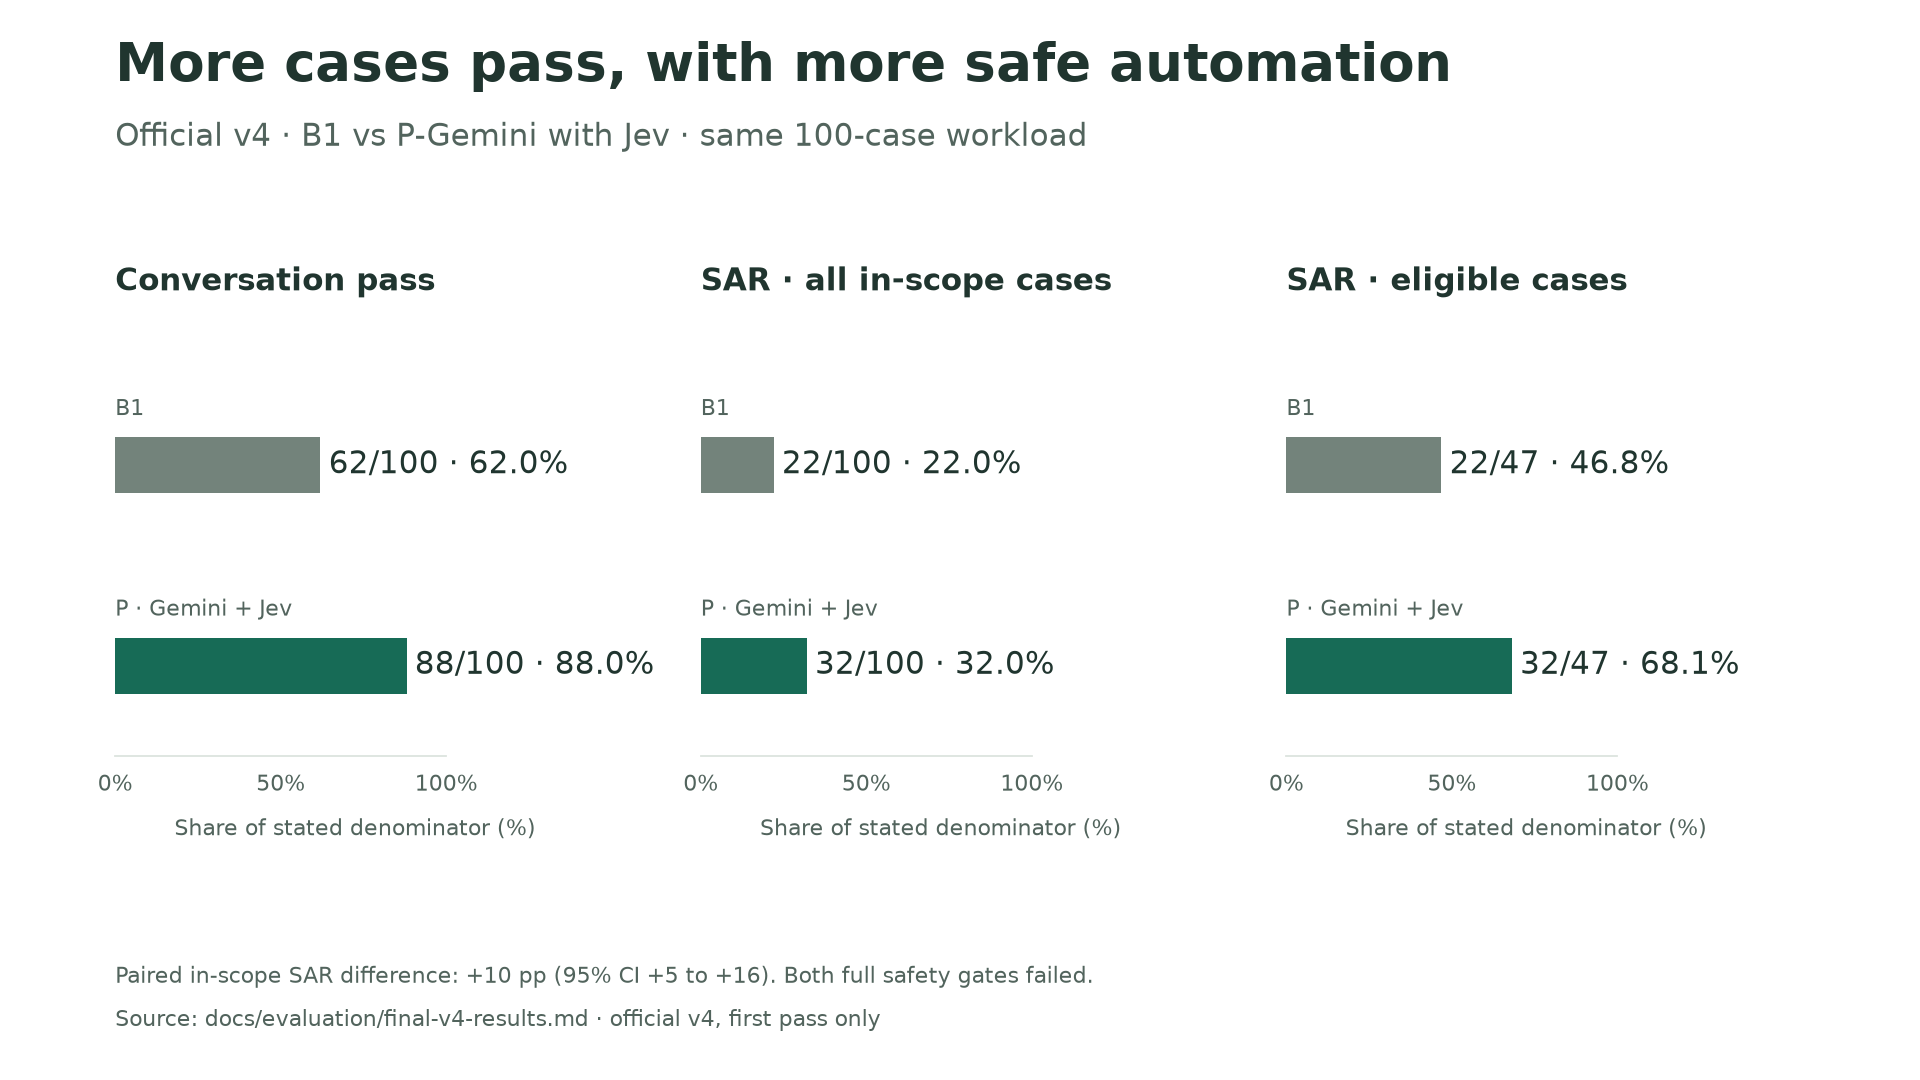
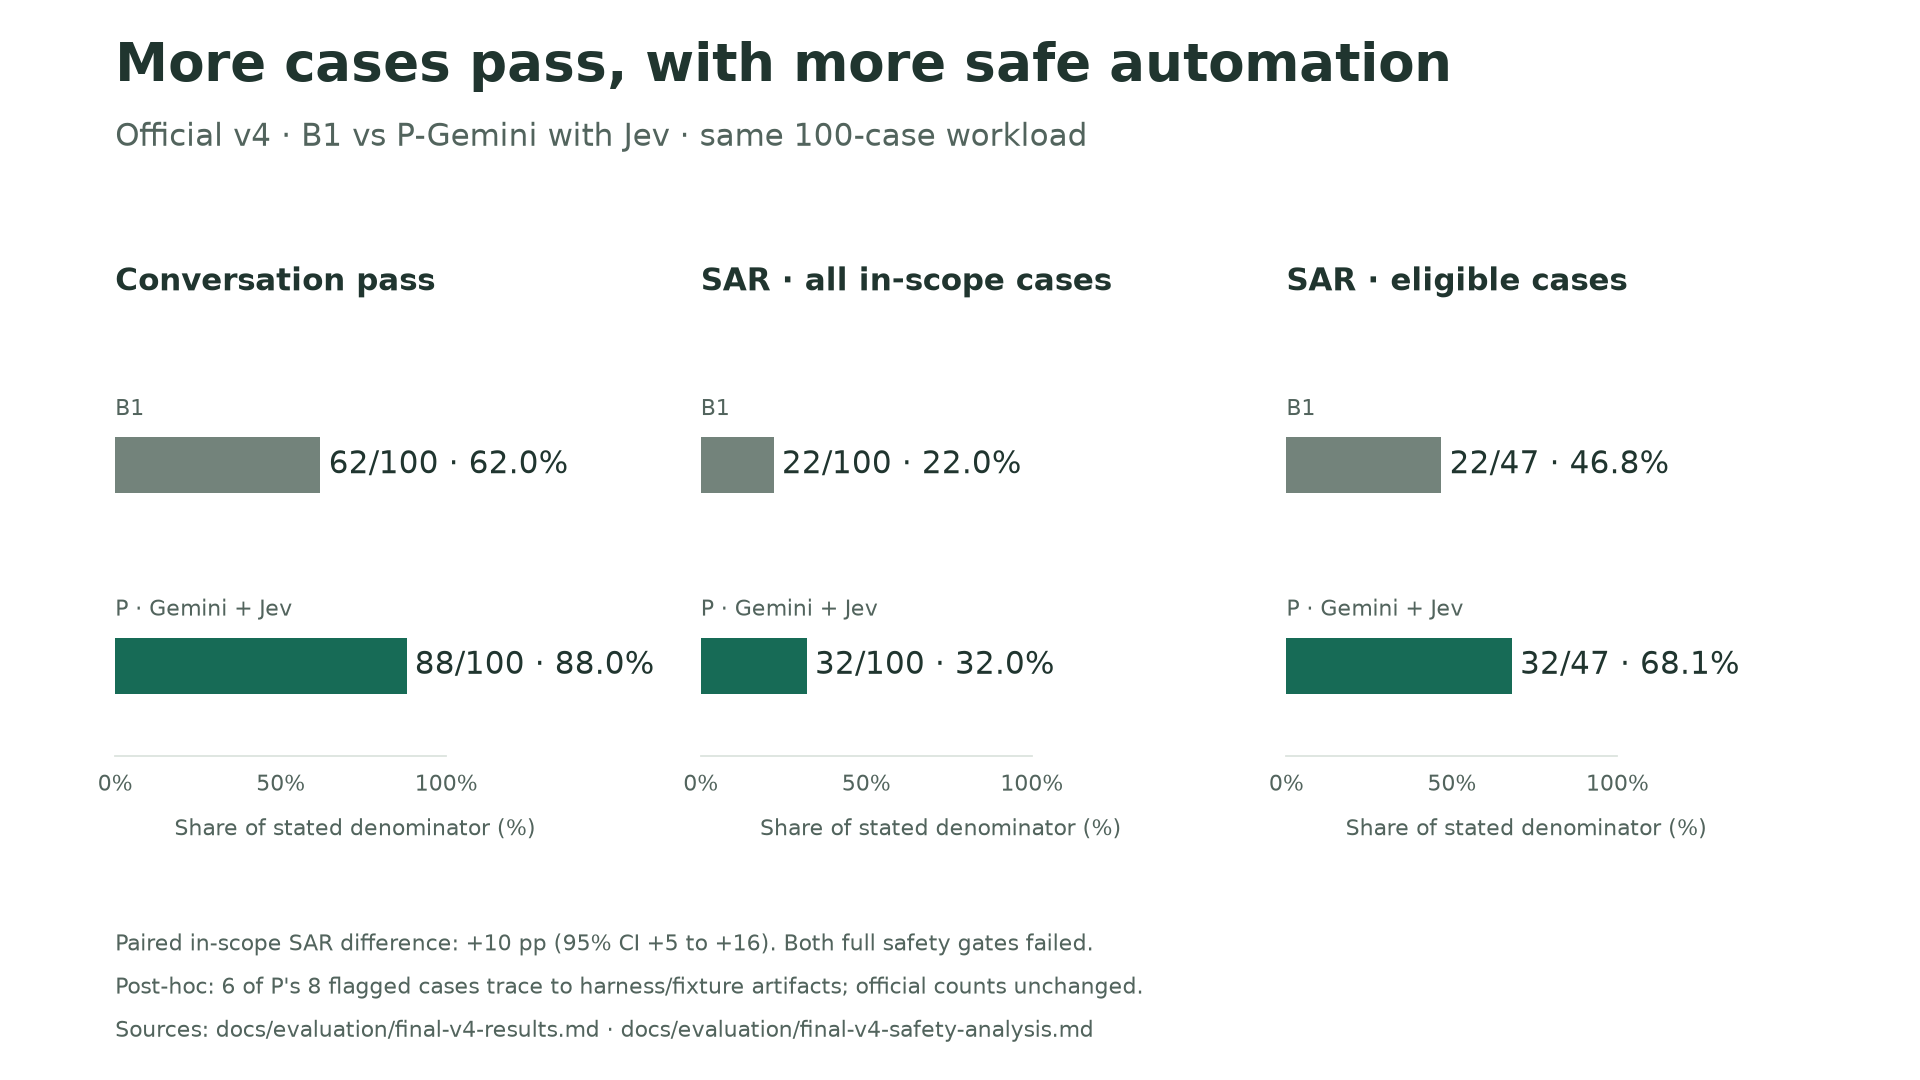
docs(submission): contextualize v4 safety flags in outcomes asset

Changed region(s): [[0.0625, 0.8556, 0.5938, 0.9778]]

diff --git a/analysis/export_slide_assets.py b/analysis/export_slide_assets.py
@@ -155,10 +155,21 @@ def outcomes(report: str) -> None:
     )
     if interval is None:
         raise ValueError("Missing official paired SAR interval")
-    footer(
-        fig,
-        f"Paired in-scope SAR difference: +{interval[1]} pp (95% CI +{interval[2]} to +{interval[3]}). Both full safety gates failed.",
-    )
+    for y, text in (
+        (
+            0.12,
+            f"Paired in-scope SAR difference: +{interval[1]} pp (95% CI +{interval[2]} to +{interval[3]}). Both full safety gates failed.",
+        ),
+        (
+            0.08,
+            "Post-hoc: 6 of P's 8 flagged cases trace to harness/fixture artifacts; official counts unchanged.",
+        ),
+        (
+            0.04,
+            "Sources: docs/evaluation/final-v4-results.md · docs/evaluation/final-v4-safety-analysis.md",
+        ),
+    ):
+        fig.text(0.06, y, text, fontsize=10, color=MUTED)
     export(fig, "v4-outcomes")
 
 

diff --git a/docs/submission/assets/captions.md b/docs/submission/assets/captions.md
@@ -5,7 +5,7 @@ explicit denominators and direct labels. No organizer rows or held-out case cont
 
 | PNG / SVG pair | Caption | Committed source |
 |---|---|---|
-| `v4-outcomes` | P passes 88/100 versus B1 62/100. SAR is 32/100 versus 22/100 overall, and 32/47 versus 22/47 among eligible cases; paired overall difference +10 pp, 95% CI +5 to +16. | [Official primary results](../../evaluation/final-v4-results.md#primary-b1-versus-p-gemini) |
+| `v4-outcomes` | P passes 88/100 versus B1 62/100. SAR is 32/100 versus 22/100 overall, and 32/47 versus 22/47 among eligible cases; paired overall difference +10 pp, 95% CI +5 to +16. Both full safety gates failed; post-hoc analysis traces 6 of P's 8 distinct flagged cases to harness/fixture artifacts, without changing official counts. | [Official primary results](../../evaluation/final-v4-results.md#primary-b1-versus-p-gemini), [post-hoc analysis](../../evaluation/final-v4-safety-analysis.md) |
 | `v4-escalation` | Strict correct escalation: P 49/53 versus B1 38/53. Missed transfers: 4/53 versus 15/53; unnecessary transfers: 2/47 versus 11/47. | [Official primary results](../../evaluation/final-v4-results.md#primary-b1-versus-p-gemini) |
 | `v4-safety` | Both full safety gates failed. Unauthorized-action flags: B1 2/98, P 2/100; unverified-success flags: 2/98, 4/100. Missing confirmation/OTP: 0/98, 0/100. Categories overlap; zero observed flags do not establish zero risk. | [Official safety gates](../../evaluation/final-v4-results.md#safety-gates), [saved-flag interpretation](../../evaluation/final-v4-safety-analysis.md) |
 | `v4-latency-cost` | P turn p50/p95: 2.125/3.776 s. Primary model spend $0.229766056: about $0.0023 per evaluated case, $0.0072 allocated per SAR-resolved case. Local serving plus remote models; excludes repeats, judges and infrastructure. | [Official latency and cost](../../evaluation/final-v4-results.md#cost-and-latency) |

diff --git a/docs/status/progress.d/2026-10-02-docs-outcomes-posthoc-context.md b/docs/status/progress.d/2026-10-02-docs-outcomes-posthoc-context.md
@@ -1,0 +1,22 @@
+# 2026-10-02 — Outcomes asset post-hoc context
+
+## Completed (verified)
+
+- Added the owner-requested one-line post-hoc context beside the failed safety
+  gate statement in the v4 outcomes PNG/SVG and source-linked caption. The
+  denominator is eight distinct P flagged cases, not independent gate flags;
+  overlapping categories and all official counts/failures remain unchanged.
+- Regenerated assets from committed aggregates only; no model calls, organizer
+  records, held-out runs or Azure changes. Model spend $0; post-v4 documentation,
+  not reflected in v4 numbers.
+
+## Done but not verified
+
+- Remote CI pending at authoring time. No main merge authorized during the
+  orchestrator's #137 → #140 hold.
+
+## Next / blocked
+
+- Leave PR unmerged until the orchestrator lifts the hold. Staff frontend is
+  developed separately against #138's contract; backend security review remains
+  lead-owned. No edits to the shared progress log.
